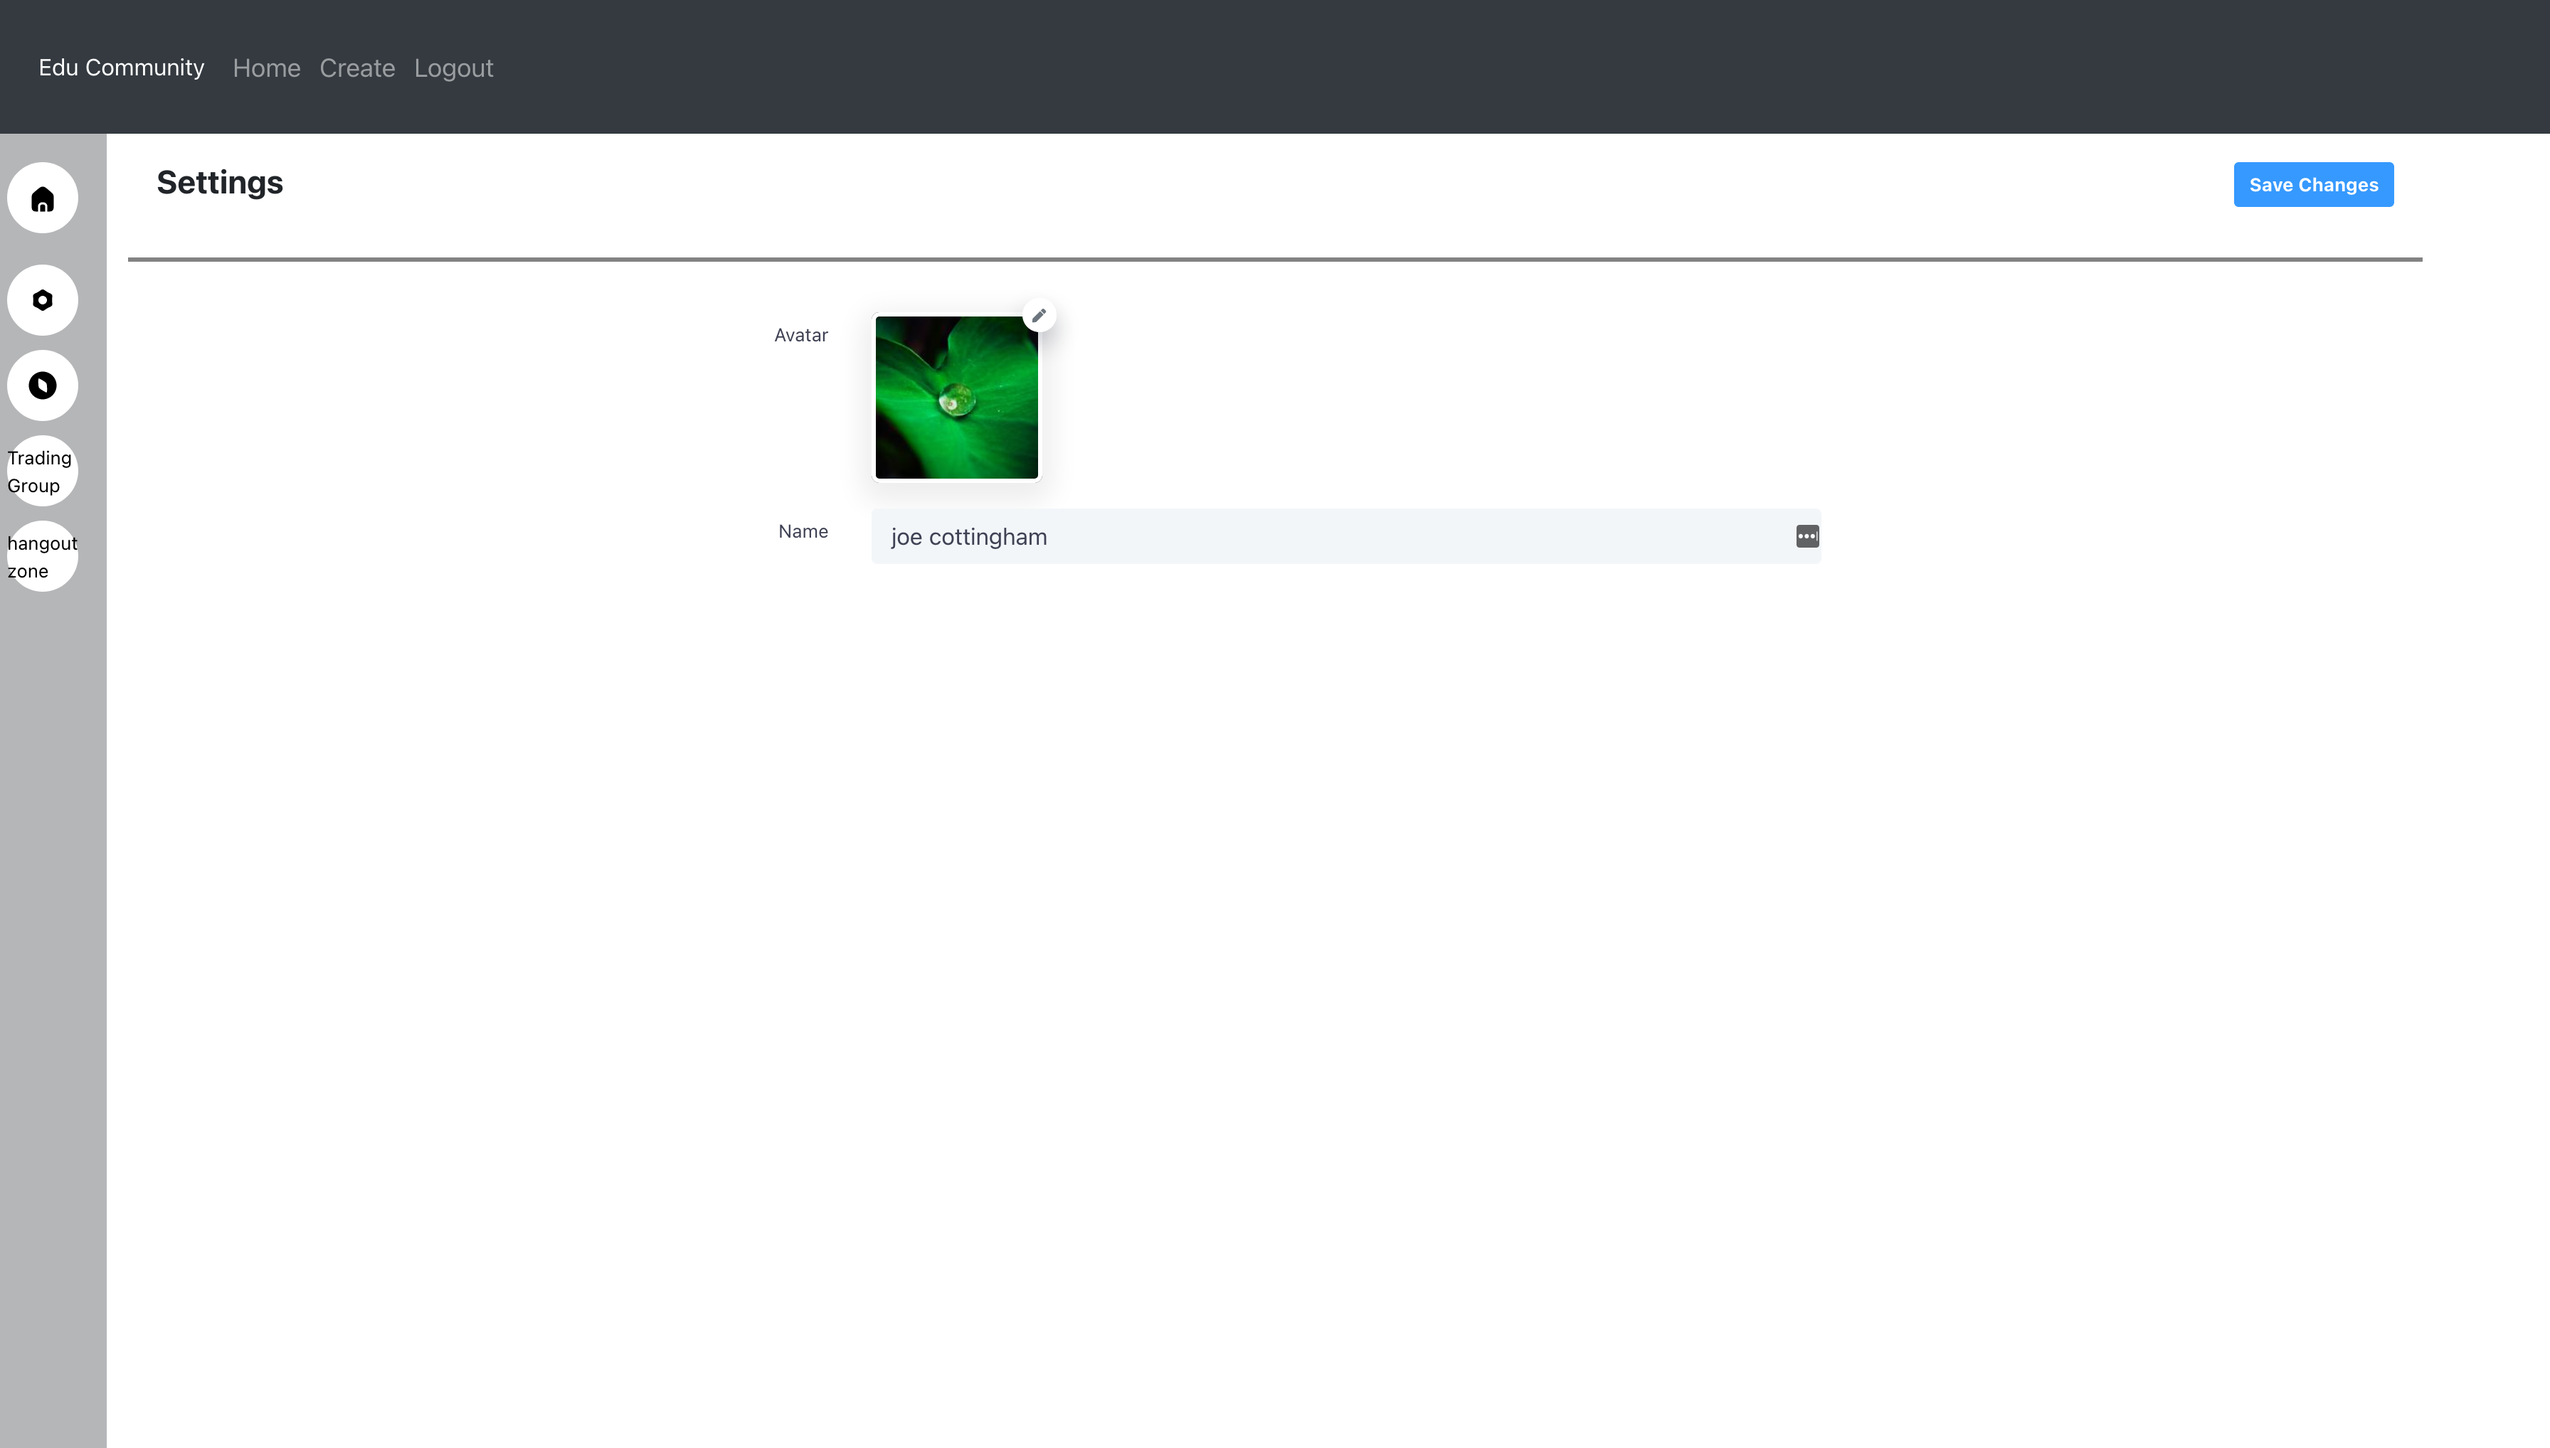
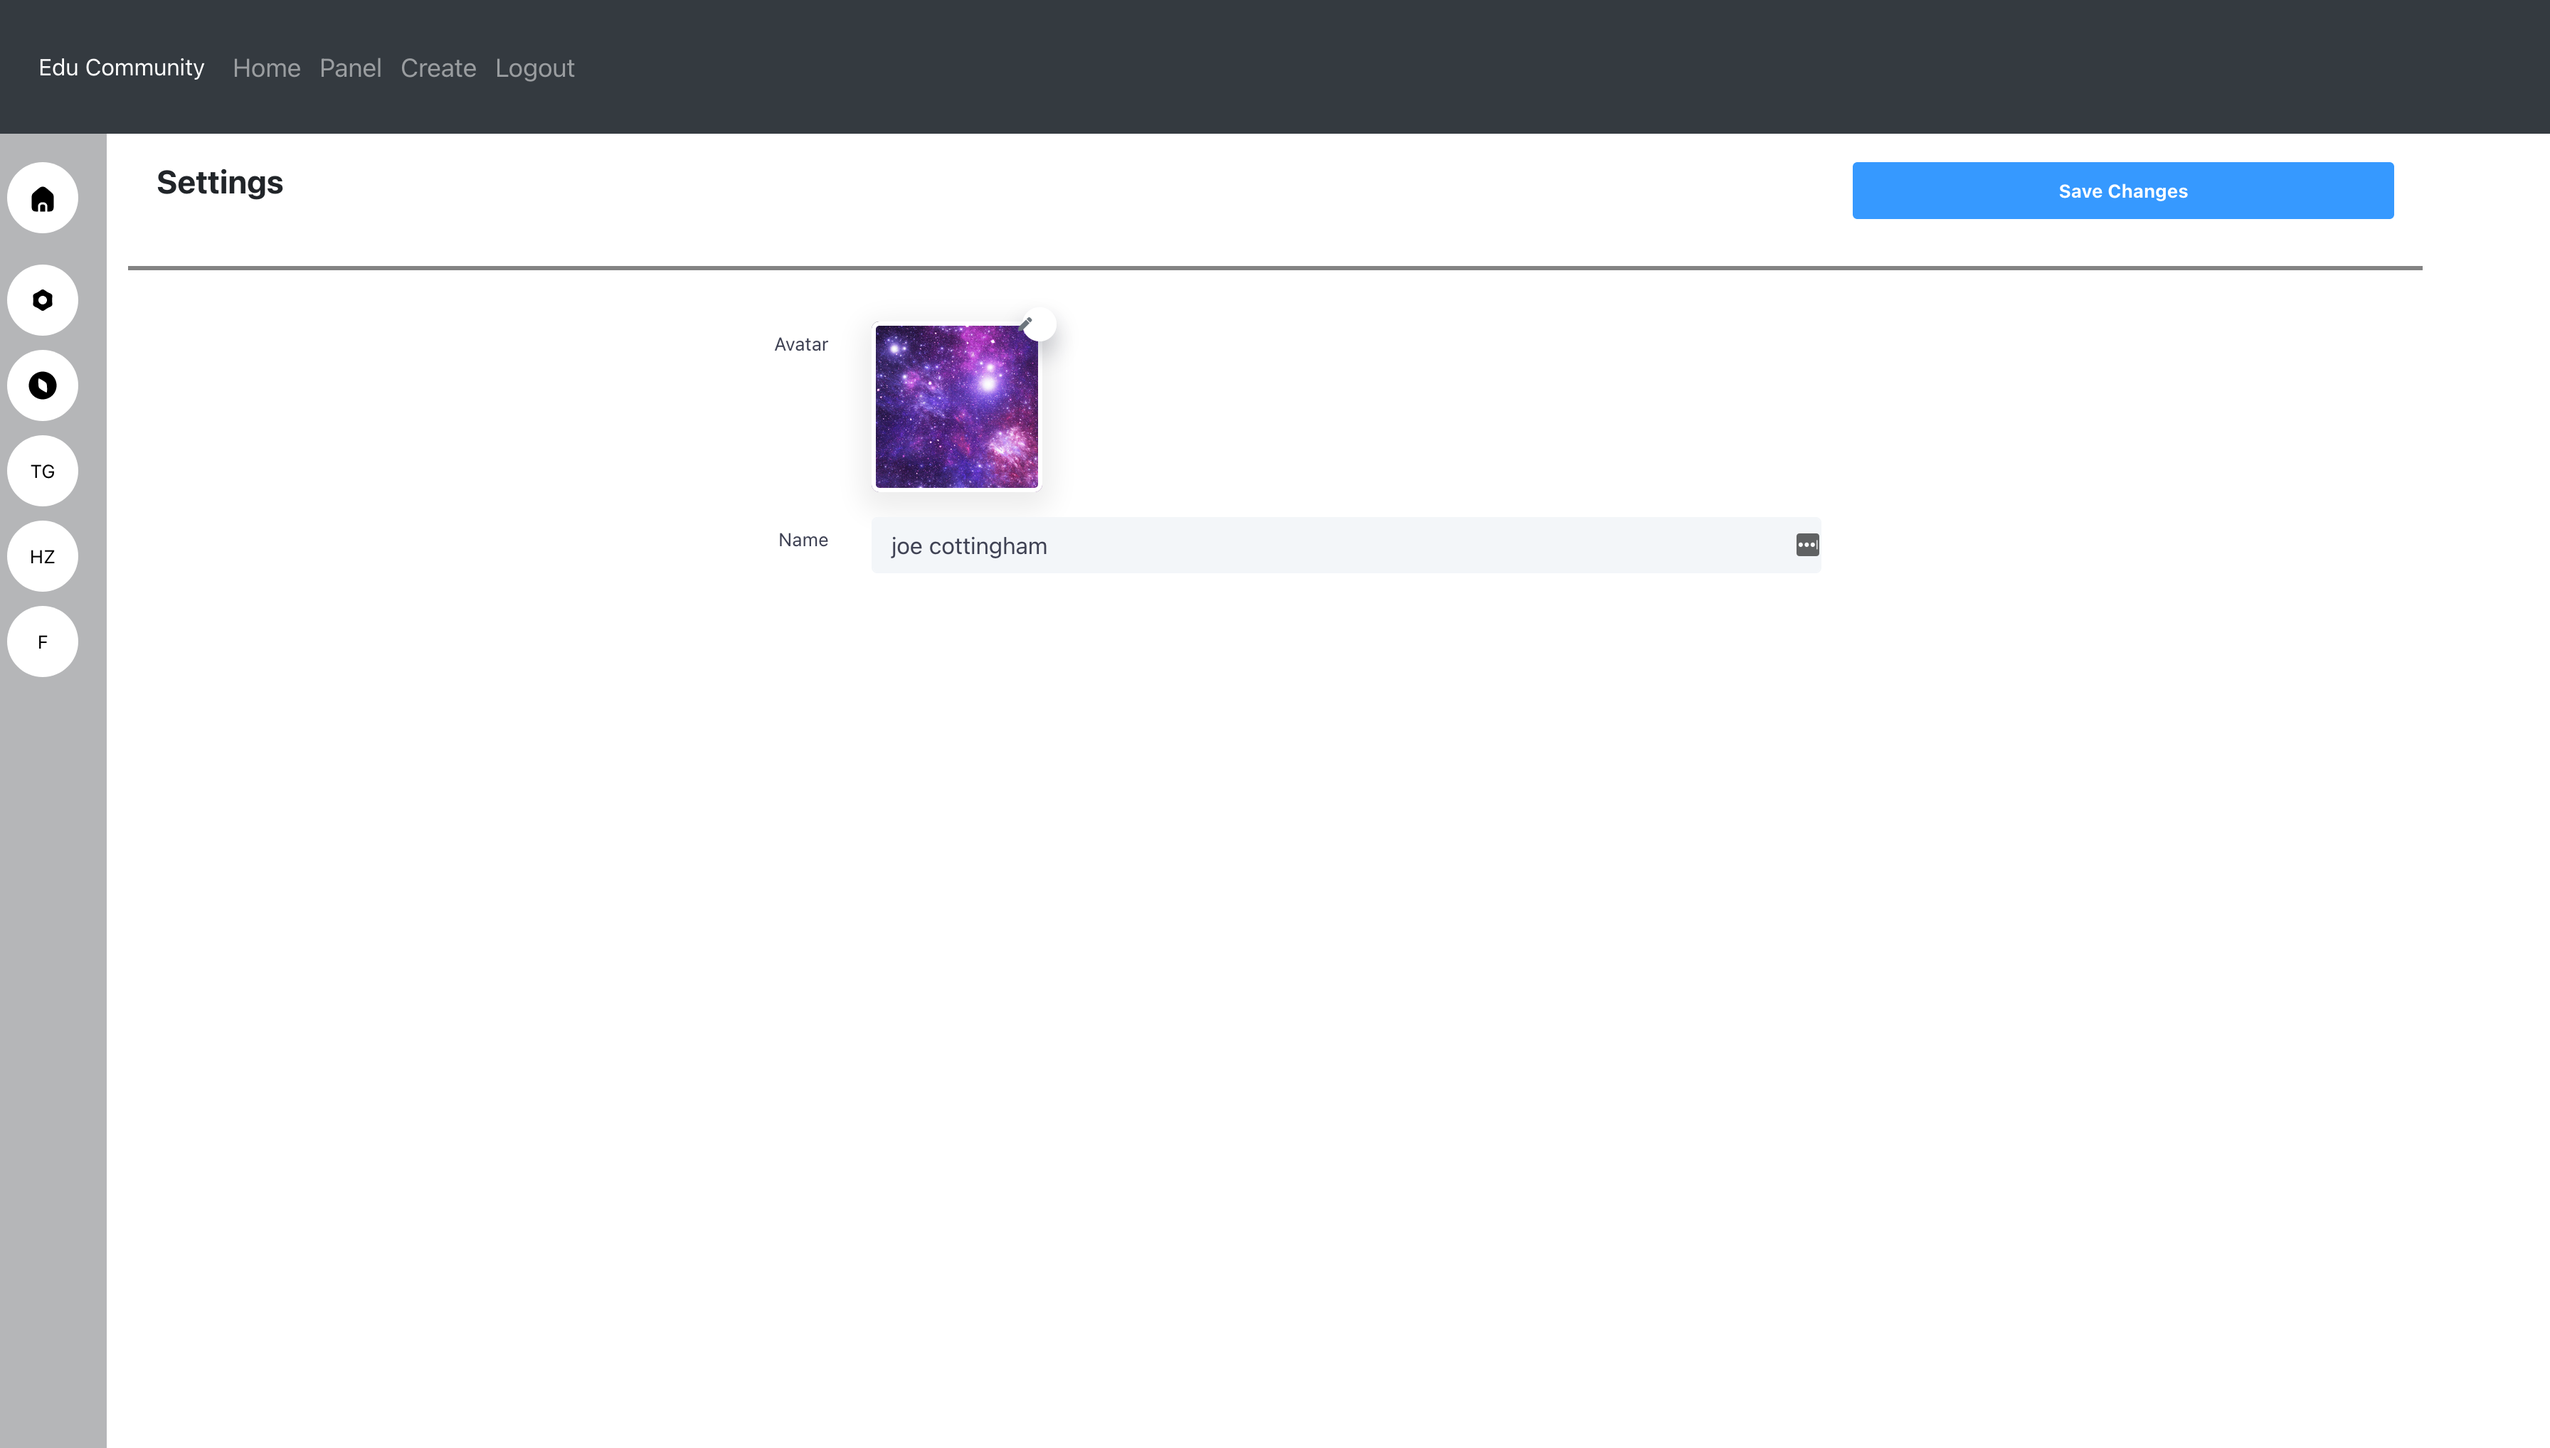
update ui and add imgs

diff --git a/edu_community_site/frontend/textchannel.html b/edu_community_site/frontend/textchannel.html
@@ -177,9 +177,9 @@
                     </div>
                 </div>
                 <div class="modal-footer">
-                    <button type="button" class="btn btn-light-primary font-weight-bold"
-                        data-dismiss="modal">Close</button>
                     {{ community_channel_create_form.community_channel_create_submit(class_="btn btn-primary font-weight-bold disconnect") }}
+                    <button type="button" class="btn btn-light-danger btn-lg font-weight-bold"
+                        data-dismiss="modal">Cancel</button>
                 </div>
             </form>
         </div>

diff --git a/edu_community_site/frontend/front.html b/edu_community_site/frontend/front.html
@@ -3,9 +3,9 @@
 {% endblock %}
 {% block contents %}
 <div class="jumbotron jumbotron-fluid web-header">
-    <div class="container" >
-        <a class="btn btn-lg sign-in-btn" role="button" href="{{url_for('app.login')}}" style="margin-left: auto; margin-right: auto;">Sign In</a>
-    </div>
+  <p class="lead">
+    <a class="btn btn-lg sign-in-btn" href="{{url_for('app.login')}}" style="margin-left: auto; margin-right: auto;">Sign In</a>
+  </p>
   </div>
   <div class="container mb-5 mt-5">
     <div class="row">

diff --git a/edu_community_site/frontend/webappnav.html b/edu_community_site/frontend/webappnav.html
@@ -28,7 +28,7 @@
             {% for community in current_user.communities %}
             <a href="{{ url_for('app.community', community_code=community.community.code) }}">
             <div class="server--icon disconnect">
-                <span>{{ community.community.name }}</span>
+                <span>{{ community.community.abrv_name }}</span>
             </div>
             </a>
             {% endfor %}

diff --git a/edu_community_site/frontend/login.html b/edu_community_site/frontend/login.html
@@ -22,7 +22,7 @@ page-loading
                 </a>
                 <!--end::Aside header-->
                 <!--begin::Aside title-->
-                <h1 class="text-center" style="font-size: 5em;">Learn in a
+                <h1 class="text-center" style="font-size: 5em; color: white;">Learn in a
                     Communites</h1>
                 <!--end::Aside title-->
             </div>

diff --git a/edu_community_site/edu_community/views.py b/edu_community_site/edu_community/views.py
@@ -37,7 +37,6 @@ def login():
                 return redirect(url_for('app.home'))
             else:
                 error_message='Email already in use or passwords did not match.'
-
     return render_template('login.html',
     login_form=login_form,
     signup_form=signup_form,
@@ -59,6 +58,8 @@ def settings():
                 request.files.get('profile_avatar').save(path)
                 return redirect(url_for('app.settings'))
     user_settings_form.name.data = current_user.name
+    for community in current_user.communities:
+        community.community.set_abrv_name()
     return render_template('settings.html',
         current_user=current_user,
         user_settings_form=user_settings_form)
@@ -82,6 +83,8 @@ def home():
             return redirect(url_for('app.community', community_code=temp_community.code))
     for community in current_user.communities:
         community.community.set_owner_name()
+    for community in current_user.communities:
+        community.community.set_abrv_name()
     return render_template('home.html', current_user=current_user)
 
 @login_required
@@ -104,6 +107,8 @@ def browse():
             return redirect(url_for('app.community', community_code=temp_community.code))
     for community in communities_all:
         community.set_owner_name()
+    for community in communities_all:
+        community.set_abrv_name()
     return render_template('browse.html',
         communities=communities_all)
 
@@ -156,6 +161,8 @@ def community_text_channel(community_code, channel_code):
                 sqlDB.session.add(new_text_channel)
                 temp_community.text_channels.append(new_text_channel)
                 sqlDB.session.commit()
+    for community in current_user.communities:
+        community.community.set_abrv_name()
     return render_template('/textchannel.html',
         current_user=current_user,
         community=temp_community,

diff --git a/edu_community_site/edu_community/sql_models.py b/edu_community_site/edu_community/sql_models.py
@@ -109,6 +109,8 @@ class Community(sqlDB.Model):
 
     owner_name = ''
 
+    abrv_name = ''
+
     def __init__(self, name, dis):
         code = 'CO__' + uuid.uuid4().hex
         while (sqlDB.session.query(User).filter_by(code=code).first() != None):
@@ -136,6 +138,12 @@ class Community(sqlDB.Model):
 
     def set_owner_name(self):
         self.owner_name = self.get_owner().name
+
+    def set_abrv_name(self):
+        word_list = self.name.split(' ')
+        self.abrv_name = ''
+        for word in word_list:
+            self.abrv_name+=word[0].upper()
 
 class Text_Channel(sqlDB.Model):
 
